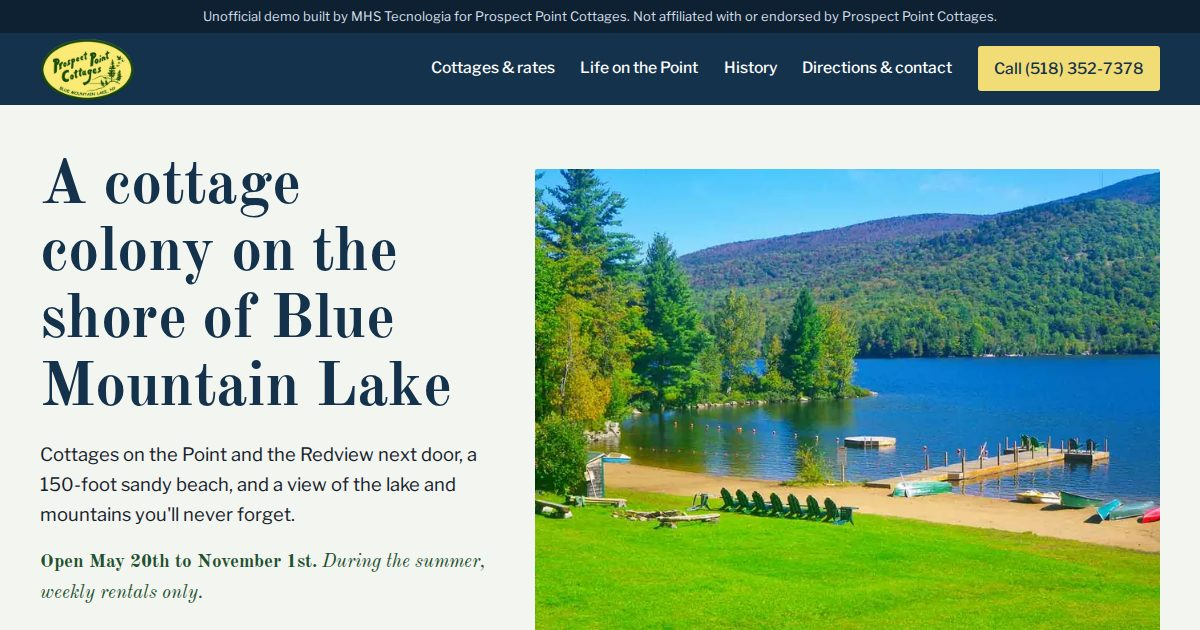
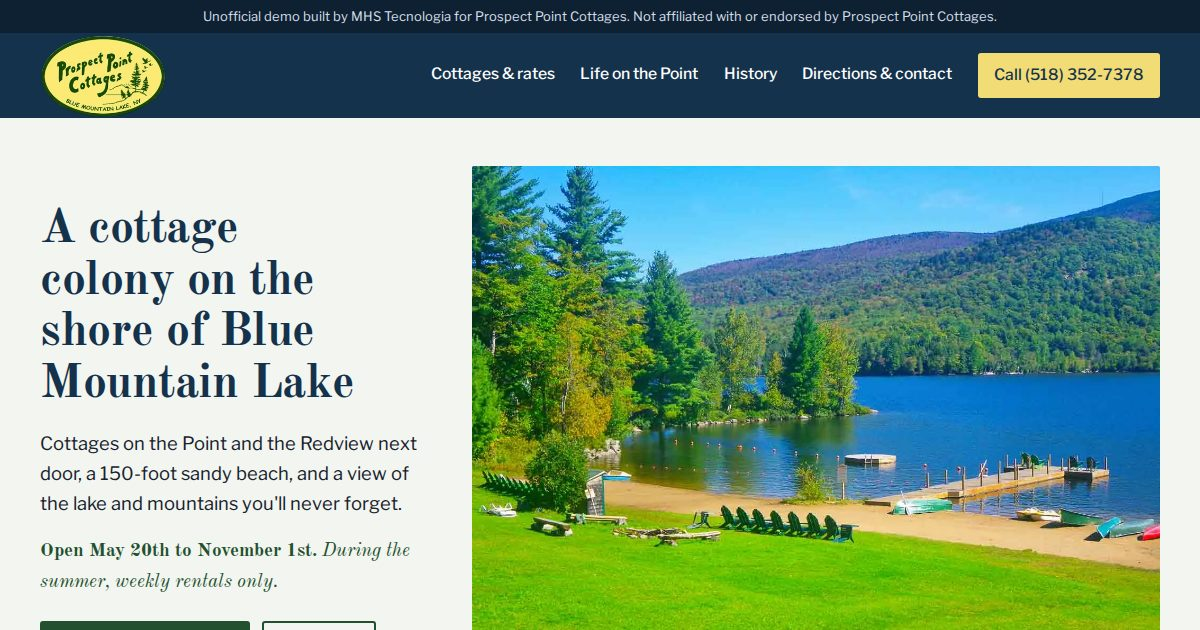
Previews: 171 ativos

diff --git a/prospect-point-cottages-blue-mountain-lake-ny/cottages.html b/prospect-point-cottages-blue-mountain-lake-ny/cottages.html
@@ -37,7 +37,7 @@ p+p{margin-top:.8rem}
 header.top{background:var(--lake);color:#fff;position:relative;z-index:5}
 .bar{display:flex;align-items:center;gap:1.25rem;min-height:4.5rem}
 .logo{display:block;flex:none;margin-right:auto}
-.logo img{width:96px;height:auto}
+.logo img{width:128px;height:auto}
 .nav{display:flex;align-items:center;gap:1.6rem}
 .nav > a{text-decoration:none;font-weight:500;font-size:.98rem;padding:.4rem 0;border-bottom:2px solid transparent}
 .nav > a:hover,.nav > a[aria-current]{border-color:var(--butter)}
@@ -63,8 +63,8 @@ header.top{background:var(--lake);color:#fff;position:relative;z-index:5}
 .actions{display:flex;flex-wrap:wrap;gap:.75rem}
 /* hero */
 .hero{padding:clamp(1.5rem,4vw,3.5rem) 0 clamp(2.5rem,5vw,4.5rem)}
-.hero .wrap{display:grid;grid-template-columns:minmax(0,5fr) minmax(0,7fr);gap:clamp(1.5rem,4vw,3.5rem);align-items:center}
-.hero h1{color:var(--lake)}
+.hero .wrap{max-width:96rem;display:grid;grid-template-columns:minmax(0,24rem) minmax(0,1fr);gap:clamp(1.5rem,4vw,3.5rem);align-items:center}
+.hero h1{color:var(--lake);font-size:clamp(2.15rem,4vw,3.3rem)}
 .hero .lede{font-size:1.15rem;margin:1.1rem 0 1rem;max-width:34rem}
 .season{font-family:"Old Standard TT",Georgia,serif;font-style:italic;font-size:1.2rem;color:var(--spruce);margin-bottom:1.4rem}
 .season b{font-style:normal}
@@ -219,12 +219,12 @@ footer.site nav a:hover{text-decoration:underline}
 <div><div class="map"><img src="img/map-400.webp" srcset="img/map-400.webp 400w, img/map-652.webp 652w" sizes="(max-width: 860px) calc(100vw - 2rem), 440px" width="652" height="619" alt="Hand-drawn camp map of Prospect Point with the cottage numbers" loading="lazy" decoding="async"></div><button class="zoom" type="button" data-open-map>Open the map larger</button></div>
 </div>
 
-<section class="group" aria-labelledby="g1"><h2 id="g1">On the water</h2><article class="cot" id="oak">
+<section class="group" aria-labelledby="g1"><h2 id="g1">On the water</h2><article class="cot withpic" id="oak"><figure><img src="img/oak-480.webp" srcset="img/oak-480.webp 480w, img/oak-610.webp 610w" sizes="(max-width: 860px) calc(100vw - 2rem), 440px" width="610" height="458" alt="Oak Cottage seen from the lake, rocks and a buoy in front" loading="lazy" decoding="async"></figure>
 <div><h3><span class="num">4</span>Oak</h3><p class="desc">Fully renovated. On the water. Spectacular views. 1 bedroom, living room with high-rise sleeper couch (2 separate beds), efficiency kitchen.</p></div>
 <dl class="rates">
 <div><dt>Spring &amp; fall</dt><dd><span class="amt">$225</span> per night (double occupancy), 2 night minimum</dd></div>
 <div><dt>Summer season</dt><dd><span class="amt">$1,700</span> per week (double occupancy)</dd></div>
-</dl></article><article class="cot" id="walnut">
+</dl></article><article class="cot withpic" id="walnut"><figure><img src="img/walnut-480.webp" srcset="img/walnut-480.webp 480w, img/walnut-610.webp 610w" sizes="(max-width: 860px) calc(100vw - 2rem), 440px" width="610" height="458" alt="Walnut Cottage among the trees above the water, Adirondack chairs on the lawn" loading="lazy" decoding="async"></figure>
 <div><h3><span class="num">5</span>Walnut</h3><p class="desc">Fully renovated. On the water. Spectacular views. 1 bedroom, living room with high-rise sleeper couch (2 separate beds), efficiency kitchen.</p></div>
 <dl class="rates">
 <div><dt>Spring &amp; fall</dt><dd><span class="amt">$225</span> per night (double occupancy), 2 night minimum</dd></div>
@@ -239,7 +239,7 @@ footer.site nav a:hover{text-decoration:underline}
 <dl class="rates">
 <div><dt>Spring &amp; fall</dt><dd><span class="amt">$250</span> per night (double occupancy), 2 night minimum</dd></div>
 <div><dt>Summer season</dt><dd><span class="amt">$1,800</span> per week (double occupancy)</dd></div>
-</dl></article><article class="cot" id="birch">
+</dl></article><article class="cot withpic" id="birch"><figure><img src="img/birch-480.webp" srcset="img/birch-480.webp 480w, img/birch-1000.webp 1000w" sizes="(max-width: 860px) calc(100vw - 2rem), 440px" width="1000" height="750" alt="Birch&#x27;s picnic table, grill and Adirondack chairs on the lawn above the lake, Blue Mountain behind" loading="lazy" decoding="async"></figure>
 <div><h3><span class="num">8</span>Birch</h3><p class="desc">Fully renovated. On the water. Spectacular views. 1 bedroom, living room with high-rise sleeper couch (2 separate beds), efficiency kitchen.</p></div>
 <dl class="rates">
 <div><dt>Spring &amp; fall</dt><dd><span class="amt">$240</span> per night (double occupancy), 2 night minimum</dd></div>
@@ -249,7 +249,7 @@ footer.site nav a:hover{text-decoration:underline}
 <dl class="rates">
 <div><dt>Spring &amp; fall</dt><dd><span class="amt">$240</span> per night (double occupancy), 2 night minimum</dd></div>
 <div><dt>Summer season</dt><dd><span class="amt">$1,750</span> per week (double occupancy)</dd></div>
-</dl></article><article class="cot" id="hemlock">
+</dl></article><article class="cot withpic" id="hemlock"><figure><img src="img/hemlock-480.webp" srcset="img/hemlock-480.webp 480w, img/hemlock-800.webp 800w" sizes="(max-width: 860px) calc(100vw - 2rem), 440px" width="800" height="600" alt="Hemlock&#x27;s living room: skylight, knotty-pine walls, dining table and windows on the lake" loading="lazy" decoding="async"></figure>
 <div><h3><span class="num">10</span>Hemlock</h3><p class="desc">Fully renovated. On the water. Spectacular views. 2 bedrooms, living room with high-rise sleeper couch (2 separate beds), efficiency kitchen.</p></div>
 <dl class="rates">
 <div><dt>Spring &amp; fall</dt><dd><span class="amt">$275</span> per night (up to four people), 2 night minimum</dd></div>
@@ -265,7 +265,7 @@ footer.site nav a:hover{text-decoration:underline}
 <dl class="rates">
 <div><dt>Spring &amp; fall</dt><dd><span class="amt">$240</span> per night (double occupancy), 2 night minimum</dd></div>
 <div><dt>Summer season</dt><dd><span class="amt">$1,800</span> per week (double occupancy)</dd></div>
-</dl></article><article class="cot" id="elm">
+</dl></article><article class="cot withpic" id="elm"><figure><img src="img/elm-480.webp" srcset="img/elm-480.webp 480w, img/elm-610.webp 610w" sizes="(max-width: 860px) calc(100vw - 2rem), 440px" width="610" height="458" alt="Elm Cottage seen from the water, its reflection in the lake" loading="lazy" decoding="async"></figure>
 <div><h3><span class="num">3</span>Elm</h3><p class="desc">Fully renovated year-round cottage with rustic fireplace. Lovely views overlooking the water. 1 bedroom, living room with high-rise sleeper couch (2 separate beds), efficiency kitchen.</p></div>
 <dl class="rates">
 <div><dt>Spring &amp; fall</dt><dd><span class="amt">$240</span> per night (double occupancy), 2 night minimum</dd></div>
@@ -276,7 +276,7 @@ footer.site nav a:hover{text-decoration:underline}
 <div><dt>Spring &amp; fall</dt><dd><span class="amt">$275</span> per night (up to four people), 2 night minimum</dd></div>
 <div><dt>Summer season</dt><dd><span class="amt">$2,150</span> per week (up to four people)</dd></div>
 </dl></article></section>
-<section class="group" aria-labelledby="g3"><h2 id="g3">On the hillside</h2><article class="cot" id="spruce">
+<section class="group" aria-labelledby="g3"><h2 id="g3">On the hillside</h2><article class="cot withpic" id="spruce"><figure><img src="img/spruce-480.webp" srcset="img/spruce-480.webp 480w, img/spruce-610.webp 610w" sizes="(max-width: 860px) calc(100vw - 2rem), 440px" width="610" height="458" alt="Spruce&#x27;s living room: wood-paneled walls, a dining table and a sleeper couch" loading="lazy" decoding="async"></figure>
 <div><h3><span class="num">11</span>Spruce</h3><p class="desc">Older cottage, clean &amp; comfortable. On hillside, lake views. 2 bedrooms, living room with high-rise sleeper couch (2 separate beds), efficiency kitchen.</p></div>
 <dl class="rates">
 <div><dt>Spring &amp; fall</dt><dd><span class="amt">$220</span> per night (up to four people), 2 night minimum</dd></div>

diff --git a/prospect-point-cottages-blue-mountain-lake-ny/index.html b/prospect-point-cottages-blue-mountain-lake-ny/index.html
@@ -10,7 +10,7 @@
 <link rel="icon" href="favicon.svg" type="image/svg+xml">
 <link rel="preload" as="font" type="font/woff2" href="fonts/oldstandard-700.woff2" crossorigin>
 <link rel="preload" as="font" type="font/woff2" href="fonts/librefranklin.woff2" crossorigin>
-<link rel="preload" as="image" href="img/hero-900.webp" imagesrcset="img/hero-m-780.webp 780w, img/hero-900.webp 900w, img/hero-1300.webp 1300w" imagesizes="(max-width: 860px) calc(100vw - 2rem), 680px" fetchpriority="high">
+<link rel="preload" as="image" href="img/hero-900.webp" imagesrcset="img/hero-m-780.webp 780w, img/hero-900.webp 900w, img/hero-1300.webp 1300w" imagesizes="(max-width: 860px) calc(100vw - 2rem), 960px" fetchpriority="high">
 <style>
 @font-face{font-family:"Old Standard TT";font-weight:400;font-display:swap;src:url(fonts/oldstandard-400.woff2) format("woff2")}
 @font-face{font-family:"Old Standard TT";font-weight:700;font-display:swap;src:url(fonts/oldstandard-700.woff2) format("woff2")}
@@ -38,7 +38,7 @@ p+p{margin-top:.8rem}
 header.top{background:var(--lake);color:#fff;position:relative;z-index:5}
 .bar{display:flex;align-items:center;gap:1.25rem;min-height:4.5rem}
 .logo{display:block;flex:none;margin-right:auto}
-.logo img{width:96px;height:auto}
+.logo img{width:128px;height:auto}
 .nav{display:flex;align-items:center;gap:1.6rem}
 .nav > a{text-decoration:none;font-weight:500;font-size:.98rem;padding:.4rem 0;border-bottom:2px solid transparent}
 .nav > a:hover,.nav > a[aria-current]{border-color:var(--butter)}
@@ -64,8 +64,8 @@ header.top{background:var(--lake);color:#fff;position:relative;z-index:5}
 .actions{display:flex;flex-wrap:wrap;gap:.75rem}
 /* hero */
 .hero{padding:clamp(1.5rem,4vw,3.5rem) 0 clamp(2.5rem,5vw,4.5rem)}
-.hero .wrap{display:grid;grid-template-columns:minmax(0,5fr) minmax(0,7fr);gap:clamp(1.5rem,4vw,3.5rem);align-items:center}
-.hero h1{color:var(--lake)}
+.hero .wrap{max-width:96rem;display:grid;grid-template-columns:minmax(0,24rem) minmax(0,1fr);gap:clamp(1.5rem,4vw,3.5rem);align-items:center}
+.hero h1{color:var(--lake);font-size:clamp(2.15rem,4vw,3.3rem)}
 .hero .lede{font-size:1.15rem;margin:1.1rem 0 1rem;max-width:34rem}
 .season{font-family:"Old Standard TT",Georgia,serif;font-style:italic;font-size:1.2rem;color:var(--spruce);margin-bottom:1.4rem}
 .season b{font-style:normal}
@@ -222,7 +222,7 @@ footer.site nav a:hover{text-decoration:underline}
 <p class="season"><b>Open May 20th to November 1st.</b> During the summer, weekly rentals only.</p>
 <div class="actions"><a class="btn primary" href="tel:+15183527378">Call (518) 352-7378</a><a class="btn ghost" href="mailto:info@prospectpt.com?subject=Cottage%20availability">Email us</a></div>
 </div>
-<figure><img src="img/hero-900.webp" srcset="img/hero-m-780.webp 780w, img/hero-900.webp 900w, img/hero-1300.webp 1300w" sizes="(max-width: 860px) calc(100vw - 2rem), 680px" width="1300" height="975" alt="The beach and the hillside lawn at Prospect Point, with Blue Mountain Lake and the mountains beyond" fetchpriority="high"><figcaption>The beach at Prospect Point Cottages.</figcaption></figure>
+<figure><img src="img/hero-900.webp" srcset="img/hero-m-780.webp 780w, img/hero-900.webp 900w, img/hero-1300.webp 1300w" sizes="(max-width: 860px) calc(100vw - 2rem), 960px" width="1300" height="975" alt="The beach and the hillside lawn at Prospect Point, with Blue Mountain Lake and the mountains beyond" fetchpriority="high"><figcaption>The beach at Prospect Point Cottages.</figcaption></figure>
 </div></section>
 
 <section class="mapsec" aria-labelledby="maph"><div class="wrap">

diff --git a/prospect-point-cottages-blue-mountain-lake-ny/contact.html b/prospect-point-cottages-blue-mountain-lake-ny/contact.html
@@ -37,7 +37,7 @@ p+p{margin-top:.8rem}
 header.top{background:var(--lake);color:#fff;position:relative;z-index:5}
 .bar{display:flex;align-items:center;gap:1.25rem;min-height:4.5rem}
 .logo{display:block;flex:none;margin-right:auto}
-.logo img{width:96px;height:auto}
+.logo img{width:128px;height:auto}
 .nav{display:flex;align-items:center;gap:1.6rem}
 .nav > a{text-decoration:none;font-weight:500;font-size:.98rem;padding:.4rem 0;border-bottom:2px solid transparent}
 .nav > a:hover,.nav > a[aria-current]{border-color:var(--butter)}
@@ -63,8 +63,8 @@ header.top{background:var(--lake);color:#fff;position:relative;z-index:5}
 .actions{display:flex;flex-wrap:wrap;gap:.75rem}
 /* hero */
 .hero{padding:clamp(1.5rem,4vw,3.5rem) 0 clamp(2.5rem,5vw,4.5rem)}
-.hero .wrap{display:grid;grid-template-columns:minmax(0,5fr) minmax(0,7fr);gap:clamp(1.5rem,4vw,3.5rem);align-items:center}
-.hero h1{color:var(--lake)}
+.hero .wrap{max-width:96rem;display:grid;grid-template-columns:minmax(0,24rem) minmax(0,1fr);gap:clamp(1.5rem,4vw,3.5rem);align-items:center}
+.hero h1{color:var(--lake);font-size:clamp(2.15rem,4vw,3.3rem)}
 .hero .lede{font-size:1.15rem;margin:1.1rem 0 1rem;max-width:34rem}
 .season{font-family:"Old Standard TT",Georgia,serif;font-style:italic;font-size:1.2rem;color:var(--spruce);margin-bottom:1.4rem}
 .season b{font-style:normal}

diff --git a/prospect-point-cottages-blue-mountain-lake-ny/history.html b/prospect-point-cottages-blue-mountain-lake-ny/history.html
@@ -37,7 +37,7 @@ p+p{margin-top:.8rem}
 header.top{background:var(--lake);color:#fff;position:relative;z-index:5}
 .bar{display:flex;align-items:center;gap:1.25rem;min-height:4.5rem}
 .logo{display:block;flex:none;margin-right:auto}
-.logo img{width:96px;height:auto}
+.logo img{width:128px;height:auto}
 .nav{display:flex;align-items:center;gap:1.6rem}
 .nav > a{text-decoration:none;font-weight:500;font-size:.98rem;padding:.4rem 0;border-bottom:2px solid transparent}
 .nav > a:hover,.nav > a[aria-current]{border-color:var(--butter)}
@@ -63,8 +63,8 @@ header.top{background:var(--lake);color:#fff;position:relative;z-index:5}
 .actions{display:flex;flex-wrap:wrap;gap:.75rem}
 /* hero */
 .hero{padding:clamp(1.5rem,4vw,3.5rem) 0 clamp(2.5rem,5vw,4.5rem)}
-.hero .wrap{display:grid;grid-template-columns:minmax(0,5fr) minmax(0,7fr);gap:clamp(1.5rem,4vw,3.5rem);align-items:center}
-.hero h1{color:var(--lake)}
+.hero .wrap{max-width:96rem;display:grid;grid-template-columns:minmax(0,24rem) minmax(0,1fr);gap:clamp(1.5rem,4vw,3.5rem);align-items:center}
+.hero h1{color:var(--lake);font-size:clamp(2.15rem,4vw,3.3rem)}
 .hero .lede{font-size:1.15rem;margin:1.1rem 0 1rem;max-width:34rem}
 .season{font-family:"Old Standard TT",Georgia,serif;font-style:italic;font-size:1.2rem;color:var(--spruce);margin-bottom:1.4rem}
 .season b{font-style:normal}

diff --git a/prospect-point-cottages-blue-mountain-lake-ny/the-point.html b/prospect-point-cottages-blue-mountain-lake-ny/the-point.html
@@ -37,7 +37,7 @@ p+p{margin-top:.8rem}
 header.top{background:var(--lake);color:#fff;position:relative;z-index:5}
 .bar{display:flex;align-items:center;gap:1.25rem;min-height:4.5rem}
 .logo{display:block;flex:none;margin-right:auto}
-.logo img{width:96px;height:auto}
+.logo img{width:128px;height:auto}
 .nav{display:flex;align-items:center;gap:1.6rem}
 .nav > a{text-decoration:none;font-weight:500;font-size:.98rem;padding:.4rem 0;border-bottom:2px solid transparent}
 .nav > a:hover,.nav > a[aria-current]{border-color:var(--butter)}
@@ -63,8 +63,8 @@ header.top{background:var(--lake);color:#fff;position:relative;z-index:5}
 .actions{display:flex;flex-wrap:wrap;gap:.75rem}
 /* hero */
 .hero{padding:clamp(1.5rem,4vw,3.5rem) 0 clamp(2.5rem,5vw,4.5rem)}
-.hero .wrap{display:grid;grid-template-columns:minmax(0,5fr) minmax(0,7fr);gap:clamp(1.5rem,4vw,3.5rem);align-items:center}
-.hero h1{color:var(--lake)}
+.hero .wrap{max-width:96rem;display:grid;grid-template-columns:minmax(0,24rem) minmax(0,1fr);gap:clamp(1.5rem,4vw,3.5rem);align-items:center}
+.hero h1{color:var(--lake);font-size:clamp(2.15rem,4vw,3.3rem)}
 .hero .lede{font-size:1.15rem;margin:1.1rem 0 1rem;max-width:34rem}
 .season{font-family:"Old Standard TT",Georgia,serif;font-style:italic;font-size:1.2rem;color:var(--spruce);margin-bottom:1.4rem}
 .season b{font-style:normal}
